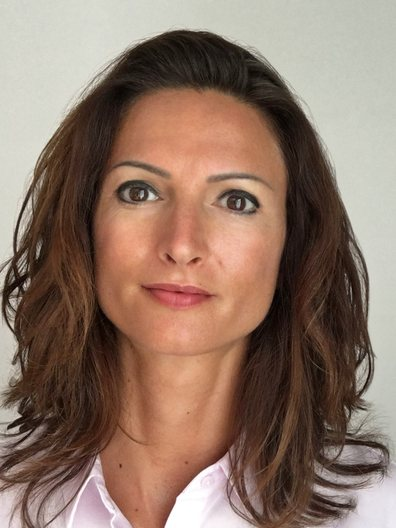
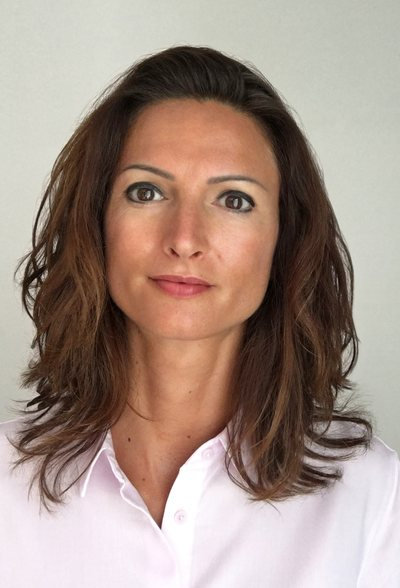
Portrait recadré moins serré
Claude-Session: https://claude.ai/code/session_017R8V3WsBd8hJ7NSGEWA8eg

diff --git a/index.html b/index.html
@@ -162,7 +162,7 @@
     .intro { display: grid; grid-template-columns: 200px 1fr; gap: 28px; align-items: stretch; padding-bottom: 36px; border-bottom: 1px solid var(--rule); }
     @media (max-width: 560px) { .intro { grid-template-columns: 1fr; } }
     .portrait { margin: 6px 0 0; width: 200px; height: calc(100% - 12px); min-height: 240px; background: var(--wash); border: 1px solid var(--rule); overflow: hidden; }
-    .portrait img { width: 100%; height: 100%; object-fit: cover; object-position: 50% 22%; display: block; }
+    .portrait img { width: 100%; height: 100%; object-fit: cover; object-position: 50% 30%; display: block; }
     @media (max-width: 560px) { .portrait { width: 160px; height: 213px; min-height: 0; margin: 0; } }
     .intro p { font: 400 18.5px/1.65 var(--sans); margin: 0 0 1em; max-width: 66ch; }
     .intro p:last-child { margin-bottom: 0; }
@@ -262,7 +262,7 @@
       <section id="presentation" class="intro" aria-labelledby="presentation-titre">
         <h2 id="presentation-titre" class="sr-only">Présentation</h2>
         <figure class="portrait">
-          <img src="img/guylaine-michelet.jpg" alt="Guylaine Michelet, experte en performance digitale et data marketing" width="396" height="528">
+          <img src="img/guylaine-michelet.jpg" alt="Guylaine Michelet, experte en performance digitale et data marketing" width="400" height="588">
         </figure>
         <div>
           <p>Avec près de 20 ans d'expérience dans les domaines du numérique et des données, Guylaine Michelet conduit actuellement des projets d'acquisition et de valorisation marketing au sein d'IDAIA Group. Riche de compétences acquises entre San Francisco et Montréal, ses travaux portent notamment sur le lien entre une exploitation pertinente des données et la performance des dispositifs digitaux en entreprise. Elle publie régulièrement sur ces sujets en privilégiant dans ses analyses la substance et le potentiel d'activation.</p>
